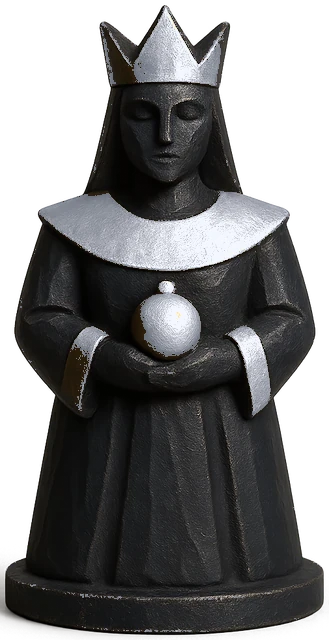
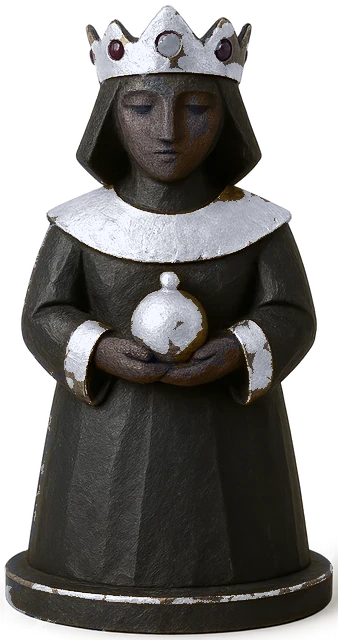
Geschnitzt: Hautton und Rangsteine - vier Materialien statt zwei
Auf Brettdistanz fehlte den Figuren der Halt: monochromer Stein mit wenig
Metall liest sich klein als Klotz. Der Satz traegt jetzt vier Materialien -
Stein, eingelegtes Metall, Hautton an Gesicht und Haenden, und kleine stark
gesaettigte Rubine als Rangsteine. Den Ausschlag gibt die Haut: sobald sie
einen eigenen Ton hat, erkennt man auch bei 44 px eine Person statt eines
Blocks. Das Gewand bleibt bewusst ungefaerbt - eine grosse dunkelblaue Flaeche
brachte im Test auf dunklen Feldern fast nichts.

Die Werkbank trennt die Materialien jetzt ueber den Farbton, und das ist der
heikle Teil: Haut liegt bei etwa 25 Grad, Gold bei 45 - die Grenze laeuft bei 34.
Eine reine Pixelmaske reichte dafuer nicht, weil die tiefsten Schatten und
hellsten Glanzlichter eines Gesichts aus dem Fenster fallen; die Creme-Rampe
sprenkelte dann mitten durchs Gesicht. Die Masken werden deshalb morphologisch
geschlossen und ihre Loecher gefuellt, bevor umgefaerbt wird.

Claude-Session: https://claude.ai/code/session_01TRXXCDjgLhw5shpN3KihMH

diff --git a/tools/carve-teams.py b/tools/carve-teams.py
@@ -1,25 +1,30 @@
 #!/usr/bin/env python3
 """Die Werkbank: rechnet aus EINEM geschnitzten Satz beide Mannschaften.
 
-Der Katalog sagt es seit jeher — generiert wird nur ein Figurenteam, aus
-Navy-Stein mit eingelegtem Antikgold. Hier entstehen daraus die zwei Seiten,
-die im Spiel gegeneinander stehen:
+Generiert wird nur ein Figurenteam: dunkler Stein, eingelegtes Antikgold, dazu
+Hautton an Gesicht und Haenden und kleine Rubine als Rangsteine. Hier entstehen
+daraus die zwei Seiten, die im Spiel gegeneinander stehen:
 
-  *-light.webp   heller Alabaster, Gold bleibt Gold        -> der Spieler
-  *-silver.webp  derselbe dunkle Stein, Gold wird Silber   -> der Gegner
+  *-light.webp   heller Alabaster, Gold bleibt Gold     -> der Spieler
+  *-silver.webp  derselbe dunkle Stein, Gold wird Silber -> der Gegner
 
 Beides ist gerechneter Stein, kein CSS-Filter: ein Filter toent immer das ganze
-Bild und zoege die Einlage gleich mit um. Die Werkzeugspur ueberlebt, weil die
-Helligkeit gespreizt statt flach eingefaerbt wird.
+Bild und zoege Einlage, Haut und Rubine gleich mit um.
+
+DIE VIER MATERIALIEN WERDEN UEBER DEN FARBTON GETRENNT. Das ist der heikle
+Punkt: Haut (rotbraun, ~25 Grad) und Gold (gelb, ~45 Grad) liegen dicht
+beieinander. Die Grenze zwischen beiden laeuft deshalb bei 34 Grad, und zusaetzlich
+muss Gold heller sitzen als die Haut - sonst wandert ein Gesicht mit ins Silber.
 
     python3 tools/carve-teams.py
 """
 import glob, os
 import numpy as np
 from PIL import Image
+from scipy import ndimage
 
 SRC = "src/app/ui/assets/carved"
-ABGELEITET = ("-light.webp", "-silver.webp")
+ABGELEITET = ("-light.webp", "-silver.webp", "-maske.png")
 
 # Creme-Rampe fuer den hellen Stein: Schatten warm gebrochen, Lichter fast weiss.
 SCHATTEN = np.array([0.35, 0.31, 0.26])
@@ -27,8 +32,12 @@ LICHT    = np.array([0.97, 0.94, 0.87])
 
 # Silber-Rampe fuer die Einlage der Gegenseite: kuehl, hell, mit Biss in den
 # Lichtern, damit es glaenzt statt nur grau zu sein.
-S_TIEF  = np.array([0.30, 0.32, 0.37])
-S_HOCH  = np.array([0.96, 0.97, 1.00])
+S_TIEF = np.array([0.30, 0.32, 0.37])
+S_HOCH = np.array([0.96, 0.97, 1.00])
+
+# Farbtongrenzen, in Umdrehungen (0..1) statt Grad.
+HAUT_VON, HAUT_BIS = 0.015, 0.094      #   5 - 34 Grad, rotbraun
+GOLD_VON, GOLD_BIS = 0.094, 0.175      #  34 - 63 Grad, gelb
 
 
 def zerlegen(im):
@@ -44,52 +53,100 @@ def zerlegen(im):
     return rgb, h, s, v
 
 
-def gold_maske(h, s, v):
-    """Gold = warmer Farbton mit spuerbarer Saettigung. Der Navy-Stein liegt
-    bei ~0.6 (blau) und faellt damit sicher heraus."""
-    return (h > 0.055) & (h < 0.16) & (s > 0.22) & (v > 0.18)
+def _schliessen(maske, radius=5):
+    """Eine reine Pixelmaske ist loechrig: die tiefsten Schatten und die
+    hellsten Glanzlichter eines Gesichts fallen aus dem Farbtonfenster heraus.
+    Blieben diese Loecher stehen, wuerde die Creme-Rampe mitten durchs Gesicht
+    sprenkeln. Also erst schliessen, dann Loecher fuellen - danach ist eine
+    Wange eine Flaeche und kein Punktraster."""
+    if not maske.any():
+        return maske
+    y, x = np.ogrid[-radius:radius + 1, -radius:radius + 1]
+    kern = x * x + y * y <= radius * radius
+    zu = ndimage.binary_closing(maske, structure=kern)
+    return ndimage.binary_fill_holes(zu)
+
+
+def masken(h, s, v):
+    """Gold, Haut und Rubin voneinander und vom Stein trennen."""
+    gold = (h >= GOLD_VON) & (h < GOLD_BIS) & (s > 0.20) & (v > 0.34)
+    haut = (h >= HAUT_VON) & (h < HAUT_BIS) & (s > 0.20) & (s < 0.75) & (v > 0.26)
+    # Rubin liegt am Farbkreis ganz aussen herum - sowohl knapp ueber 0 als auch
+    # knapp unter 1 ist Rot. Er muss deutlich gesaettigter sein als jede Haut.
+    rubin = ((h < HAUT_VON) | (h > 0.92)) & (s > 0.35)
+
+    haut = _schliessen(haut, 6)
+    gold = _schliessen(gold, 4) & ~haut     # Haut gewinnt an der Grenze
+    rubin = _schliessen(rubin, 3)
+    return gold, haut, rubin
 
 
 def hell(pfad, ziel):
-    """Alabaster-Team: Stein aufhellen, Gold stehen lassen."""
+    """Alabaster-Team: nur der Stein wird gehoben, alles andere bleibt."""
     im = Image.open(pfad).convert("RGBA")
     rgb, h, s, v = zerlegen(im)
-    gold = gold_maske(h, s, v)
-    # Der Navy-Stein sitzt eng zwischen ~0.05 und ~0.40 — genau dieses Band
-    # wird gedehnt, sonst bliebe die Figur ein grauer Fleck ohne Werkzeugspur.
+    gold, haut, rubin = masken(h, s, v)
+    behalten = gold | haut | rubin
+    # Der Navy-Stein sitzt eng zwischen ~0.05 und ~0.40 - genau dieses Band wird
+    # gedehnt, sonst bliebe die Figur ein grauer Fleck ohne Werkzeugspur.
     t = np.clip((v - 0.045) / 0.36, 0, 1) ** 0.82
     stein = SCHATTEN + (LICHT - SCHATTEN) * t[..., None]
-    out = np.where(gold[..., None], rgb, stein)
-    _sichern(out, im, ziel)
+    _sichern(np.where(behalten[..., None], rgb, stein), im, ziel)
 
 
 def silber(pfad, ziel):
-    """Gegner-Team: Stein bleibt dunkel, die Einlage wird poliertes Silber."""
+    """Gegner-Team: Stein bleibt dunkel, die Einlage wird poliertes Silber,
+    die Haut eine Spur kuehler und blasser - dieselbe Art, andere Seite."""
     im = Image.open(pfad).convert("RGBA")
     rgb, h, s, v = zerlegen(im)
-    gold = gold_maske(h, s, v)
-    # Das Gold ist hell und kontrastreich; dieselbe Helligkeit auf eine kuehle
-    # Rampe gelegt ergibt Silber, das seine Woelbung behaelt. Leicht angehoben,
-    # damit es auf dem dunklen Stein wirklich glaenzt.
+    gold, haut, rubin = masken(h, s, v)
+
     t = np.clip((v - 0.10) / 0.72, 0, 1) ** 0.78
     einlage = S_TIEF + (S_HOCH - S_TIEF) * t[..., None]
+
+    # Haut kuehlen: Saettigung zurueck, Blauanteil leicht anheben.
+    grau = rgb.mean(-1, keepdims=True)
+    kuehl = np.clip(grau + (rgb - grau) * 0.55 + np.array([-0.02, 0.0, 0.045]), 0, 1)
+
     out = np.where(gold[..., None], einlage, rgb)
+    out = np.where(haut[..., None], kuehl, out)
     _sichern(out, im, ziel)
 
 
-def _sichern(out, im, ziel):
+def maskenbild(pfad, ziel):
+    """Kontrollbild: Gold gelb, Haut magenta, Rubin gruen, Stein schwarz.
+    Nur zum Nachsehen, ob die Trennung wirklich sitzt - wird nicht ausgeliefert."""
+    im = Image.open(pfad).convert("RGBA")
+    _, h, s, v = zerlegen(im)
+    gold, haut, rubin = masken(h, s, v)
+    out = np.zeros(h.shape + (3,), dtype=np.float32)
+    out[gold] = [1, 0.85, 0.1]
+    out[haut] = [1, 0.2, 0.8]
+    out[rubin] = [0.2, 1, 0.3]
+    _sichern(out, im, ziel, fmt="PNG")
+
+
+def _sichern(out, im, ziel, fmt="WEBP"):
     alpha = np.asarray(im)[..., 3]
     out = np.clip(out * 255, 0, 255).astype(np.uint8)
-    Image.fromarray(np.dstack([out, alpha]), "RGBA").save(ziel, "WEBP", quality=90, method=6)
+    bild = Image.fromarray(np.dstack([out, alpha]), "RGBA")
+    if fmt == "WEBP":
+        bild.save(ziel, "WEBP", quality=90, method=6)
+    else:
+        bild.save(ziel)
 
 
 if __name__ == "__main__":
+    import sys
+    kontrolle = "--masken" in sys.argv
     n = 0
     for f in sorted(glob.glob(os.path.join(SRC, "carved-*.webp"))):
         if f.endswith(ABGELEITET):
             continue
         hell(f, f.replace(".webp", "-light.webp"))
         silber(f, f.replace(".webp", "-silver.webp"))
+        if kontrolle:
+            maskenbild(f, f.replace(".webp", "-maske.png"))
         n += 1
         print("abgeleitet:", os.path.basename(f))
     print(f"carve-teams: {n} Figuren, je hell und silber")
